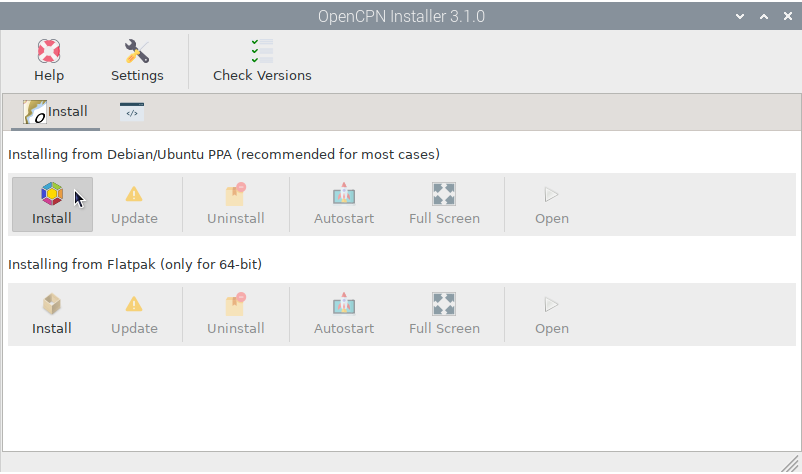
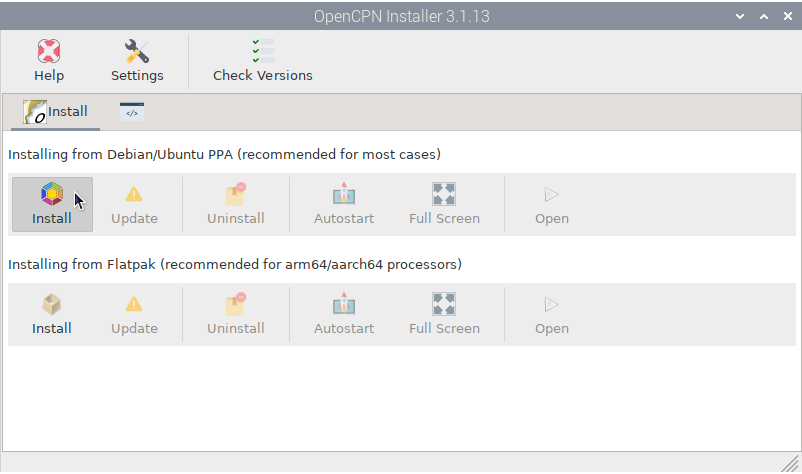
finish opencpn

diff --git a/opencpn/opencpn_app.rst b/opencpn/opencpn_app.rst
@@ -31,12 +31,16 @@ OpenCPN can be installed on multiple Debian derivatives (Raspberry OS, Ubuntu, M
 |OPopencpnCheck| Check Versions
 *******************************
 
+When you open the app, all buttons are disabled. You have to check the current versions present in all installed sources. This could take even a minute the first time:
+
 .. image:: img/opencpn1.png
+
+A list with the different versions from all the sources will be displayed so that you can choose the right one. The buttons on the |OPopencpnPlugins| ``Install`` tab will now be enabled.
 
 .. image:: img/opencpn2.png
 
-Which version to choose?
-************************
+Which source to choose?
+***********************
 
 As a general rule, you should choose Debian/Ubuntu PPA, but if the plugin you need is not available for your system or if it is not the latest version of OpenCPN, choose the Flatpak installation. Both *Debian/Ubuntu PPA* and *Flatpak* installations can coexists without problem:
 
@@ -45,33 +49,35 @@ As a general rule, you should choose Debian/Ubuntu PPA, but if the plugin you ne
 |OPopencpnPPA| Debian/Ubuntu PPA
 ================================
 
+This option contains two sources that are compatible with each other, the official Debian repository and a special Ubuntu repository. If you choose this option the highest version will be installed but rarely the Debian version will be higher than Ubuntu. The Ubuntu repository version can be installed on any Debian system without problem.
+
 .. image:: img/opencpn3.png
 
 |OPopencpnFlatpak| Flatpak
 ==========================
 
+This option runs OpenCPN in a kind of container independent of the host system. For this reason the time and size of the download will be larger. This option is perfect if your system is not LTS (Long Term Support) or at that moment the plugin you need does not exist in the Debian/Ubuntu PPA version. At the time of writing this manual, there are some known issues with headless environments that could prevent OpenCPN Flatpak from running.
+
 .. image:: img/opencpn4.png
 
-|OPopencpnPlugins| Installing plugins
-=====================================
+OpenCPN Installer actions
+*************************
 
-|OPopencpnUpdate| Update
-************************
+Once OpenCPN is installed, there are a few actions you can take in this app. 
 
-|OPopencpnUninstall| Uninstall
-******************************
+- You can |OPopencpnUninstall| ``Uninstall`` OpenCPN at any time.
 
-|OPopencpnAutostart| Autostart
-******************************
+- If there is an |OPopencpnUpdate| ``Update``, this button will be enabled.
 
-|OPopencpnFullscreen| Full Screen
-*********************************
+- By checking |OPopencpnAutostart| ``Autostart``, OpenCPN will run automatically at startup and by checking |OPopencpnFullscreen| ``Full Screen``, it will use the entire screen.
 
-|OPopencpnOpen| Open
-********************
+- By clicking |OPopencpnOpen| ``Open``, OpenCPN will run.
+
 
 |OPopencpnSK| Signal K connection
 #################################
+
+To receive data from all your devices and sensors on OpenCPN, the recommended way is to create all connections on the Signa K server and then create a single connection to the server on OpenCPN using these settings:
 
 :Type: Network
 

diff --git a/index.rst b/index.rst
@@ -32,7 +32,7 @@ Welcome to OpenPlotter's documentation!
 
 .. toctree::
    :maxdepth: 1
-   :caption: Signal K Installer - 3.1.2-beta
+   :caption: Signal K Installer - 3.1.9-beta
    :name: sec-signalk
 
    signalk/signalk_app
@@ -40,7 +40,7 @@ Welcome to OpenPlotter's documentation!
    
 .. toctree::
    :maxdepth: 1
-   :caption: OpenCPN Installer - 3.1.0-beta
+   :caption: OpenCPN Installer - 3.1.13-beta
    :name: sec-opencpn
 
    opencpn/opencpn_app
